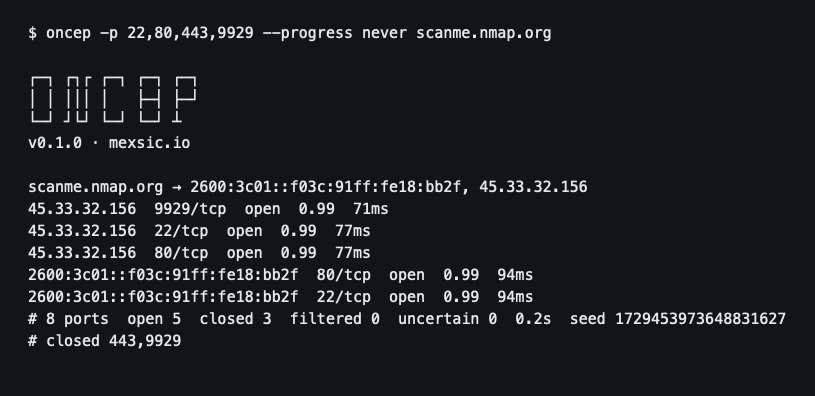
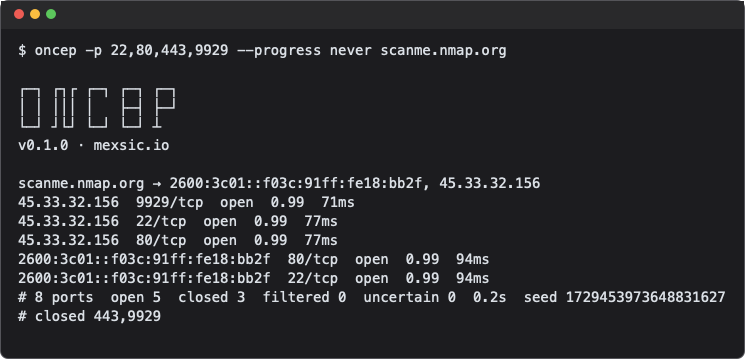
Add the badge row and frame the main screenshot.

Changed region(s): [[0.0, 0.0, 1.0, 1.0], [0.0, 0.0, 0.6792, 0.1532], [0.0, 0.1838, 0.247, 0.429]]

diff --git a/README.md b/README.md
@@ -1,16 +1,30 @@
 # oncep
 
+<p align="center">
+<a href="https://opensource.org/licenses/MIT"><img src="https://img.shields.io/badge/license-MIT-_red.svg"></a>
+<a href="https://github.com/kian-cx/oncep/issues"><img src="https://img.shields.io/badge/contributions-welcome-brightgreen.svg?style=flat"></a>
+<a href="https://github.com/kian-cx/oncep/releases"><img src="https://img.shields.io/github/release/kian-cx/oncep"></a>
+<a href="https://x.com/mexsicio"><img src="https://img.shields.io/badge/follow-%40mexsicio-000?style=flat&logo=x&logoColor=white"></a>
+</p>
+
+<p align="center">
+  <a href="#features">Features</a> •
+  <a href="#installation">Installation</a> •
+  <a href="#usage">Usage</a> •
+  <a href="#running-oncep">Running oncep</a> •
+  <a href="#output">Output</a> •
+  <a href="#confidence">Confidence</a>
+</p>
+
 TCP port scanner written in Rust. It opens a normal TCP connection, so it does not need root and it does not link to libpcap. Every port comes back with a confidence, and the scan tells you how long is left.
-
-![oncep scanning scanme.nmap.org, with the banner, open ports, and the summary](static/scan.png)
-
-[![License: MIT](https://img.shields.io/badge/license-MIT-_red.svg)](https://opensource.org/licenses/MIT)
-
-[Features](#features) · [Installation](#installation) · [Usage](#usage) · [Running oncep](#running-oncep) · [Output](#output) · [Confidence](#confidence)
 
 oncep is made by [Mex Strategic Intelligence Center, S.A. de C.V.](https://mexsic.io).
 
 ## Features
+
+<p align="center">
+  <img src="static/scan.png" alt="oncep scanning scanme.nmap.org" width="700">
+</p>
 
 - Connect scan on macOS and Linux. No raw sockets.
 - IPv4 and IPv6. A hostname is resolved once, and each address is scanned.
